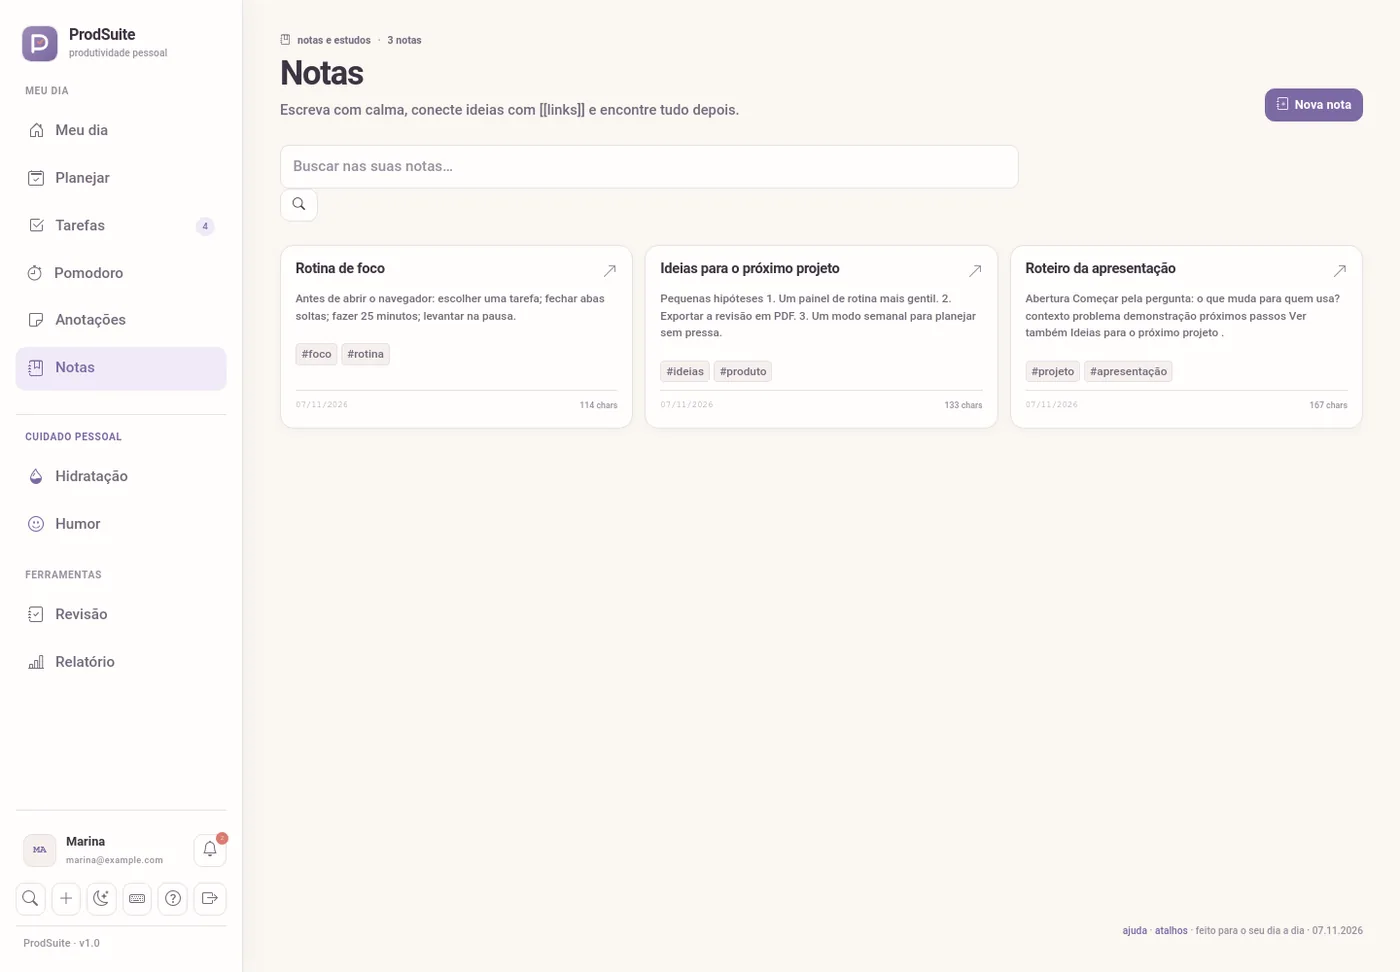
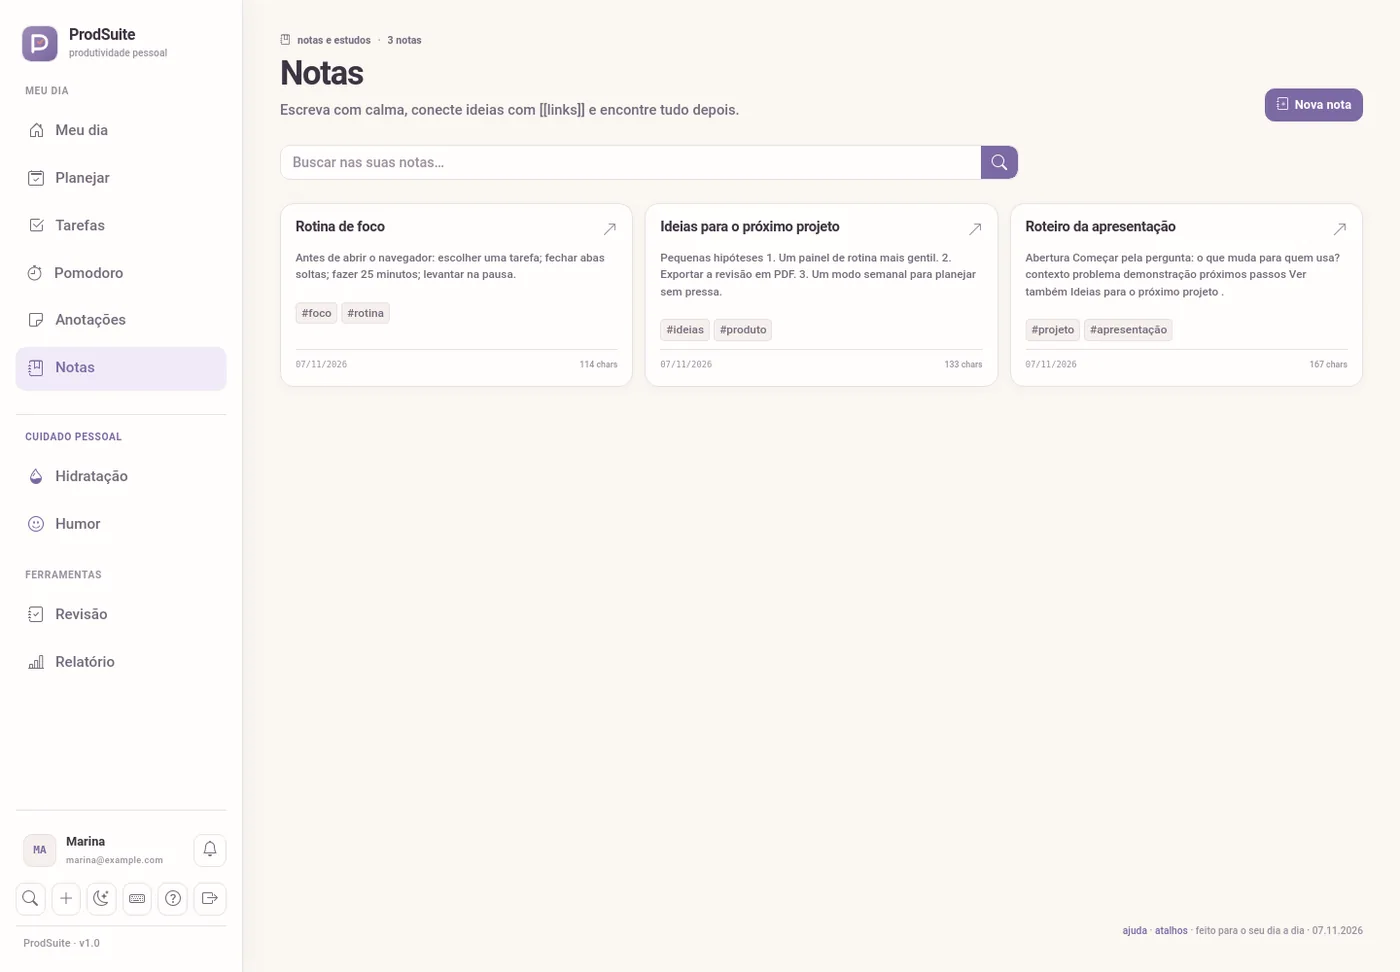
fix: integra busca às notas

diff --git a/templates/notes.html b/templates/notes.html
@@ -12,11 +12,17 @@
 </div>
 
 <form class="search-box" method="get" action="{{ url_for('notes.index') }}" role="search">
-  <label class="visually-hidden" for="notesSearch">Buscar notas</label>
-  <input class="form-control" type="search" id="notesSearch" name="q" value="{{ query }}"
-         placeholder="Buscar nas suas notas…" autocomplete="off">
-  <button class="btn btn-ghost" type="submit"><i class="bi bi-search"></i></button>
-  {% if query %}<a class="btn btn-ghost" href="{{ url_for('notes.index') }}" aria-label="Limpar filtro"><i class="bi bi-x-lg"></i></a>{% endif %}
+  <div class="notes-search-row">
+    <div class="search-field">
+      <label class="visually-hidden" for="notesSearch">Buscar notas</label>
+      <input class="form-control" type="search" id="notesSearch" name="q" value="{{ query }}"
+             placeholder="Buscar nas suas notas…" autocomplete="off">
+      <button class="search-submit" type="submit" aria-label="Buscar notas" title="Buscar notas">
+        <i class="bi bi-search" aria-hidden="true"></i>
+      </button>
+    </div>
+    {% if query %}<a class="btn btn-ghost btn-sm notes-search-clear" href="{{ url_for('notes.index') }}" aria-label="Limpar filtro"><i class="bi bi-x-lg"></i> Limpar</a>{% endif %}
+  </div>
 </form>
 
 {% if notes %}

diff --git a/static/css/theme.css b/static/css/theme.css
@@ -10231,3 +10231,22 @@ html[data-theme="light"] #surfaceGradient stop:nth-child(2) {
     max-width: 100%;
   }
 }
+
+.notes-search-row {
+  display: flex;
+  width: 100%;
+  align-items: center;
+  gap: 7px;
+}
+
+.notes-search-row .search-field {
+  flex: 1;
+}
+
+.notes-search-clear {
+  flex: 0 0 auto;
+}
+
+.notes-search-clear i {
+  margin-right: 2px;
+}

diff --git a/static/sw.js b/static/sw.js
@@ -10,7 +10,7 @@
  *
  * Ao alterar assets, incremente CACHE_VERSION para promover a limpeza.
  */
-const CACHE_VERSION = "v3.6.9";
+const CACHE_VERSION = "v3.7.0";
 const PRECACHE = `prodsuite-precache-${CACHE_VERSION}`;
 const RUNTIME = `prodsuite-runtime-${CACHE_VERSION}`;
 const OFFLINE_URL = "/offline";

diff --git a/tests/test_app.py b/tests/test_app.py
@@ -1958,6 +1958,15 @@ class TestTaskDetail:
 # NOTAS / MARKDOWN / BUSCA
 # ==========================================================================
 class TestNotes:
+    def test_notes_search_uses_integrated_search_field(self, client, app, make_user):
+        make_user()
+        login(client)
+        html = client.get("/notas").get_data(as_text=True)
+        assert 'class="notes-search-row"' in html
+        assert 'class="search-field"' in html
+        assert 'class="search-submit"' in html
+        assert 'Buscar nas suas notas' in html
+
     def test_note_renders_markdown_and_wiki_links(self, client, app, make_user):
         make_user()
         login(client)

diff --git a/README.md b/README.md
@@ -8,7 +8,7 @@ Um app pessoal e auto-hospedado para organizar o que importa sem transformar a v
 ![Python](https://img.shields.io/badge/Python-3.13-7c6aa3)
 ![Flask](https://img.shields.io/badge/Flask-3.0-9e8ab8)
 ![Docker](https://img.shields.io/badge/Docker-ready-8eb7c6)
-![Testes](https://img.shields.io/badge/testes-157%20passando-b98aa4)
+![Testes](https://img.shields.io/badge/testes-158%20passando-b98aa4)
 ![Trivy](https://img.shields.io/badge/Trivy-0%20HIGH%2FCRITICAL-a7d1b0)
 
 ![Meu dia no ProdSuite](docs/images/readme-dashboard.webp)
@@ -310,7 +310,7 @@ Testes:
 
 ```bash
 pytest -q
-# 157 testes
+# 158 testes
 ```
 
 O banco local fica em `instance/prodsuite.db` e não é apagado ao sair da conta.

diff --git a/docs/RUNBOOK.md b/docs/RUNBOOK.md
@@ -19,7 +19,7 @@ Para a apresentação do app, o tour visual e o guia de uso, volte ao **[README]
 | Banco | `/data/prodsuite.db` |
 | Limite de memória | 512 MB |
 | Healthcheck | `GET /healthz` |
-| Testes | 157 Pytest |
+| Testes | 158 Pytest |
 | Dados no Git | nenhum (banco, `.env` e backups são ignorados) |
 
 ---
@@ -520,7 +520,7 @@ source .venv/bin/activate
 pytest -q
 ```
 
-Resultado esperado: **157 testes passando**.
+Resultado esperado: **158 testes passando**.
 
 Cobertura:
 
